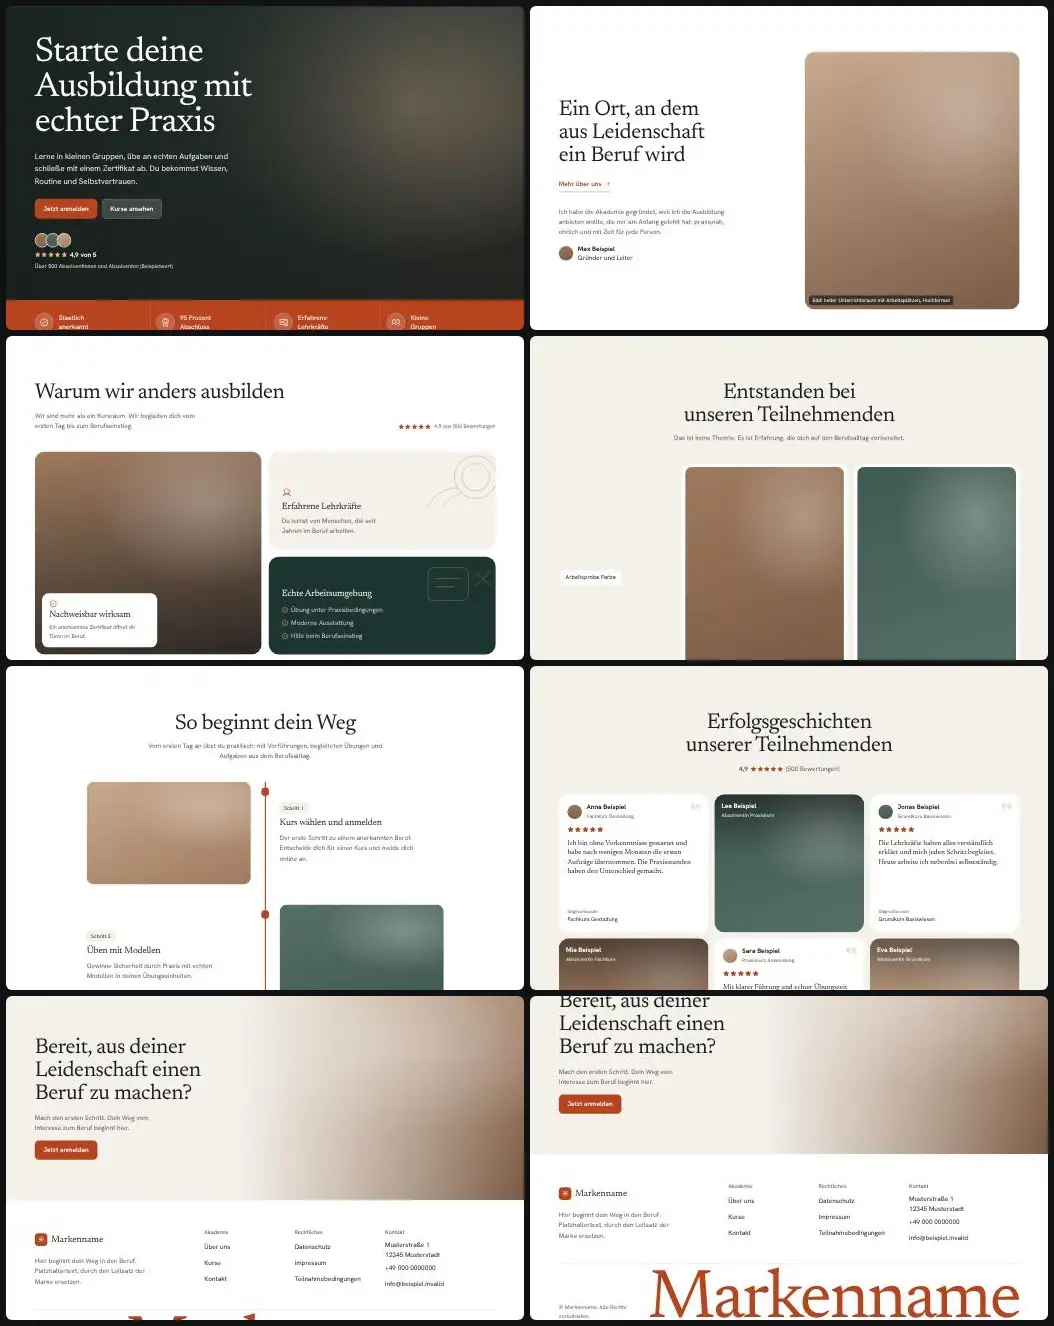
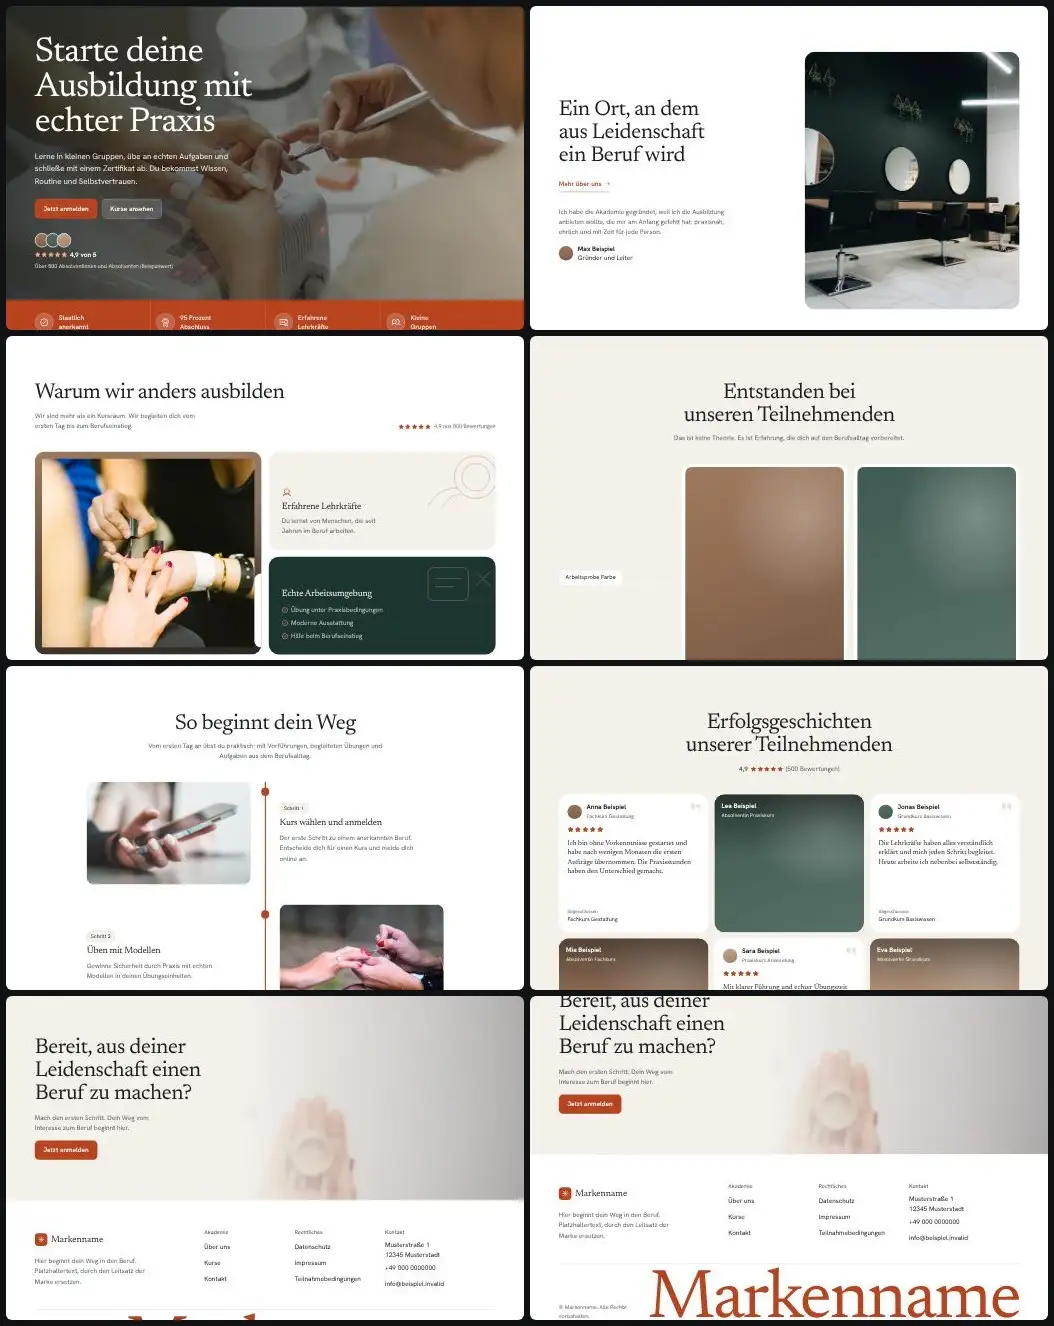
Bibliothek t37: Beispielfotos (Unsplash) eingebaut, Vorschaubilder neu erzeugt
Claude-Session: https://claude.ai/code/session_01DoGuL1bwF3ewggMgZ4Cpvd

diff --git a/skills/webdesign-conversion/assets/vorlagen/bibliothek/t37/index.html b/skills/webdesign-conversion/assets/vorlagen/bibliothek/t37/index.html
@@ -68,7 +68,7 @@
 <main id="inhalt">
   <!-- 1. Held: Vollbild mit dunklem Schleier, große Serifenüberschrift, zwei Knöpfe, Bewertung -->
   <section class="held" id="top" aria-labelledby="h-held">
-    <div class="bild held__bild" data-platzhalter="Bild: Übungssituation in der Werkstatt, Querformat" role="img" aria-label="Platzhalter für ein Foto einer Übungssituation" data-parallax="0.08"></div>
+    <div class="bild held__bild" data-parallax="0.08"><img src="bilder/nagelstudio-behandlung.webp" width="1600" height="1067" alt="Maniküre im Nagelstudio, Hände bei der Behandlung" loading="lazy" decoding="async"></div>
     <div class="held__schleier" aria-hidden="true"></div>
     <div class="wrap held__innen">
       <h1 id="h-held" data-zeig>Starte deine Ausbildung mit echter Praxis</h1>
@@ -106,7 +106,7 @@
           <footer class="person"><span class="avatar-klein" aria-hidden="true"></span><span><strong>Max Beispiel</strong><br>Gründer und Leiter</span></footer>
         </blockquote>
       </div>
-      <div class="bild ueber__bild" data-zeig="skala" data-platzhalter="Bild: heller Unterrichtsraum mit Arbeitsplätzen, Hochformat" role="img" aria-label="Platzhalter für ein Foto des Unterrichtsraums"></div>
+      <div class="bild ueber__bild" data-zeig="skala"><img src="bilder/salon-stuehle-spiegel.webp" width="1600" height="1111" alt="Heller Salonraum mit schwarzen Stühlen vor runden Spiegeln" loading="lazy" decoding="async"></div>
     </div>
   </section>
 
@@ -119,7 +119,7 @@
       </header>
       <ul class="kurse__raster" data-staffel data-beispiel>
         <li class="kurskarte" data-zeig>
-          <div class="bild kurskarte__bild bild--a" data-platzhalter="Bild: Kurs Aufbau" role="img" aria-label="Platzhalter für ein Kursfoto"><span class="chip-dauer"><svg width="14" height="14" aria-hidden="true" focusable="false"><use href="#i-clock"/></svg>12 Wochen</span></div>
+          <div class="bild kurskarte__bild bild--a"><img src="bilder/pinsel-palette.webp" width="1000" height="667" alt="Make-up Pinsel und Paletten auf rosa Untergrund" loading="lazy" decoding="async"><span class="chip-dauer"><svg width="14" height="14" aria-hidden="true" focusable="false"><use href="#i-clock"/></svg>12 Wochen</span></div>
           <div class="kurskarte__inhalt">
             <span class="etikett">Aufbau</span>
             <h3>Fachkurs Gestaltung</h3>
@@ -130,7 +130,7 @@
           </div>
         </li>
         <li class="kurskarte" data-zeig>
-          <div class="bild kurskarte__bild bild--b" data-platzhalter="Bild: Kurs Grundlagen" role="img" aria-label="Platzhalter für ein Kursfoto"><span class="chip-dauer"><svg width="14" height="14" aria-hidden="true" focusable="false"><use href="#i-clock"/></svg>8 Wochen</span></div>
+          <div class="bild kurskarte__bild bild--b"><img src="bilder/nagellack-flaschen.webp" width="1000" height="735" alt="Fünf Nagellackflaschen in verschiedenen Farben" loading="lazy" decoding="async"><span class="chip-dauer"><svg width="14" height="14" aria-hidden="true" focusable="false"><use href="#i-clock"/></svg>8 Wochen</span></div>
           <div class="kurskarte__inhalt">
             <span class="etikett">Einsteiger</span>
             <h3>Grundkurs Basiswissen</h3>
@@ -141,7 +141,7 @@
           </div>
         </li>
         <li class="kurskarte" data-zeig>
-          <div class="bild kurskarte__bild bild--c" data-platzhalter="Bild: Kurs Anwendung" role="img" aria-label="Platzhalter für ein Kursfoto"><span class="chip-dauer"><svg width="14" height="14" aria-hidden="true" focusable="false"><use href="#i-clock"/></svg>10 Wochen</span></div>
+          <div class="bild kurskarte__bild bild--c"><img src="bilder/haarbuerste-werkzeug.webp" width="1000" height="574" alt="Schwarze Haarbürste auf hellem Untergrund" loading="lazy" decoding="async"><span class="chip-dauer"><svg width="14" height="14" aria-hidden="true" focusable="false"><use href="#i-clock"/></svg>10 Wochen</span></div>
           <div class="kurskarte__inhalt">
             <span class="etikett">Fortgeschritten</span>
             <h3>Praxiskurs Anwendung</h3>
@@ -167,7 +167,7 @@
         <p class="warum__bewertung" data-zeig data-beispiel><span class="sterne" aria-hidden="true"><svg width="16" height="16" focusable="false"><use href="#i-star"/></svg><svg width="16" height="16" focusable="false"><use href="#i-star"/></svg><svg width="16" height="16" focusable="false"><use href="#i-star"/></svg><svg width="16" height="16" focusable="false"><use href="#i-star"/></svg><svg width="16" height="16" focusable="false"><use href="#i-star"/></svg></span><span>4,9 aus 500 Bewertungen</span></p>
       </header>
       <div class="warum__raster" data-staffel>
-        <article class="bild warum__gross bild--d" data-zeig data-platzhalter="Bild: Ausbilderin zeigt einen Handgriff" role="img" aria-label="Platzhalter für ein Foto einer Anleitung">
+        <article class="bild warum__gross bild--d" data-zeig><img src="bilder/maniktuere-nahaufnahme.webp" width="1000" height="667" alt="Nahaufnahme einer Maniküre bei der Arbeit" loading="lazy" decoding="async">
           <div class="warum__hinweis"><svg width="22" height="22" aria-hidden="true" focusable="false"><use href="#i-check-circle"/></svg><h3>Nachweisbar wirksam</h3><p>Ein anerkanntes Zertifikat öffnet dir Türen im Beruf.</p></div>
         </article>
         <article class="warum__karte warum__karte--hell" data-zeig>
@@ -219,11 +219,11 @@
       </header>
       <ol class="zeitleiste" data-zeitleiste>
         <li class="schritt">
-          <div class="bild schritt__bild bild--c" data-zeig data-platzhalter="Bild: Anmeldung am Handy" role="img" aria-label="Platzhalter für ein Foto einer Anmeldung am Handy"></div>
+          <div class="bild schritt__bild bild--c" data-zeig><img src="bilder/smartphone-in-hand.webp" width="800" height="485" alt="Hand hält ein Smartphone" loading="lazy" decoding="async"></div>
           <div class="schritt__text" data-zeig><span class="etikett">Schritt 1</span><h3>Kurs wählen und anmelden</h3><p>Der erste Schritt zu einem anerkannten Beruf. Entscheide dich für einen Kurs und melde dich online an.</p></div>
         </li>
         <li class="schritt">
-          <div class="bild schritt__bild bild--b" data-zeig data-platzhalter="Bild: Übung an Modellen" role="img" aria-label="Platzhalter für ein Foto einer Übung"></div>
+          <div class="bild schritt__bild bild--b" data-zeig><img src="bilder/nagelpflege-haende.webp" width="800" height="532" alt="Hände bei der Nagelpflege" loading="lazy" decoding="async"></div>
           <div class="schritt__text" data-zeig><span class="etikett">Schritt 2</span><h3>Üben mit Modellen</h3><p>Gewinne Sicherheit durch Praxis mit echten Modellen in deinen Übungseinheiten.</p></div>
         </li>
         <li class="schritt">
@@ -313,7 +313,7 @@
 
   <!-- 10. Aufruf -->
   <section class="aufruf" id="anmeldung" aria-labelledby="h-aufruf">
-    <div class="bild aufruf__bild" data-platzhalter="Bild: Ausbilderin und Teilnehmerin am Arbeitsplatz" role="img" aria-label="Platzhalter für ein Foto am Arbeitsplatz"></div>
+    <div class="bild aufruf__bild"><img src="bilder/pinsel-in-hand.webp" width="1600" height="1067" alt="Hand mit Make-up Pinsel" loading="lazy" decoding="async"></div>
     <div class="aufruf__schleier" aria-hidden="true"></div>
     <div class="wrap aufruf__innen">
       <h2 id="h-aufruf" data-zeig>Bereit, aus deiner Leidenschaft einen Beruf zu machen?</h2>

diff --git a/skills/webdesign-conversion/assets/vorlagen/bibliothek/t37/BILDER.md b/skills/webdesign-conversion/assets/vorlagen/bibliothek/t37/BILDER.md
@@ -1,0 +1,26 @@
+# Bilder t37
+
+Alle Fotos von Unsplash, abgerufen am 25.11.2026. Titel und Lizenz stehen so auf der Seite des Fotos (Titel von Unsplash automatisch vergeben), als Fotograf ist das Unsplash Profil angegeben, weil die Seite den Namen nur als Profillink zeigte. Lizenz ist jeweils die Unsplash Lizenz.
+
+| Datei | Platz | Foto Titel | Fotograf (Profil) | Seite | Lizenz | Abruf |
+|---|---|---|---|---|---|---|
+| nagelstudio-behandlung.webp.webp | Hero Werkstatt | Eine Frau, die ihre Nägel in einem Nagelstudio macht | giorgiotrovato | https://unsplash.com/photos/gb6gtiTZKB8 | Unsplash Lizenz | 25.11.2026 |
+| salon-stuehle-spiegel.webp.webp | Über uns Unterrichtsraum | Drei schwarze Salonstühle mit Blick auf runde Spiegel | gregtrow | https://unsplash.com/photos/jsuWg7IXx1k | Unsplash Lizenz | 25.11.2026 |
+| pinsel-palette.webp.webp | Kurskarte Aufbau | Make-up-Pinsel und Make-up-Pinsel | apostolosv | https://unsplash.com/photos/Z1vKFzAmYPI | Unsplash Lizenz | 25.11.2026 |
+| nagellack-flaschen.webp.webp | Kurskarte Grundlagen | Eine Gruppe von fünf verschiedenfarbigen Nagellacken | luandmario | https://unsplash.com/photos/sp6wzdYJ7QQ | Unsplash Lizenz | 25.11.2026 |
+| haarbuerste-werkzeug.webp.webp | Kurskarte Anwendung | schwarze Haarbürste | sharisocial | https://unsplash.com/photos/oM5YoMhTf8E | Unsplash Lizenz | 25.11.2026 |
+| maniktuere-nahaufnahme.webp.webp | Ausbilderin zeigt Handgriff | Person, die Maniküre macht | krisatomic | https://unsplash.com/photos/Xa8fX8bQCgs | Unsplash Lizenz | 25.11.2026 |
+| smartphone-in-hand.webp.webp | Anmeldung am Handy | Eine Person, die ein Smartphone mit einem Marmormuster-Case hält | jaehunpark | https://unsplash.com/photos/9_SaFlgwFdA | Unsplash Lizenz | 25.11.2026 |
+| nagelpflege-haende.webp.webp | Übung an Modellen | Frau macht Maniküre | rush_intime | https://unsplash.com/photos/pVw3XzhdKJg | Unsplash Lizenz | 25.11.2026 |
+| pinsel-in-hand.webp.webp | Aufruf am Arbeitsplatz | Person mit braunem und weißem Make-up-Pinsel | kellysikkema | https://unsplash.com/photos/KJ-us7cIsl0 | Unsplash Lizenz | 25.11.2026 |
+
+## Hinweise
+
+* Das Foto im Aufruf zeigt eine Hand mit Pinsel statt Ausbilderin und Teilnehmerin; das Schild der Vorlage passt nicht genau.
+* Nur Atmosphärenbilder, keine echten Absolventen oder Lehrkräfte.
+
+## Offen
+
+* Vorher und Nachher (vier Plätze, Ergebnisbilder dürfen nicht erfunden werden)
+* Zertifikat in der Hand (kein Foto ohne lesbaren Text gefunden)
+* Drei Porträts von Absolventinnen und Absolventen
